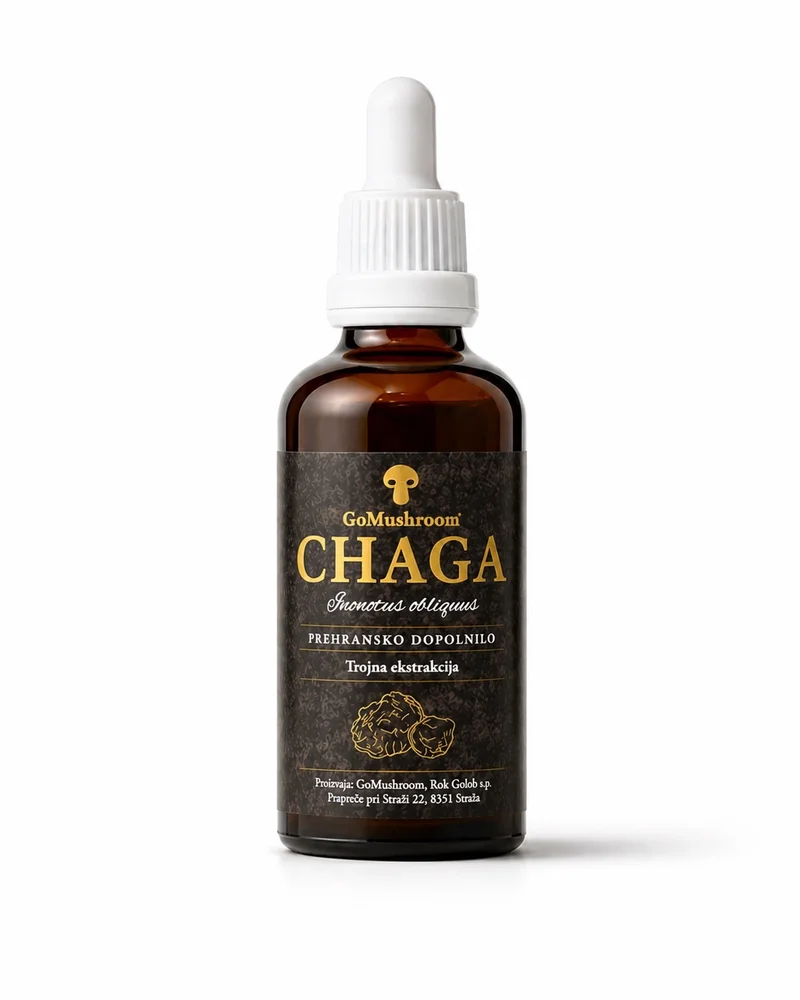
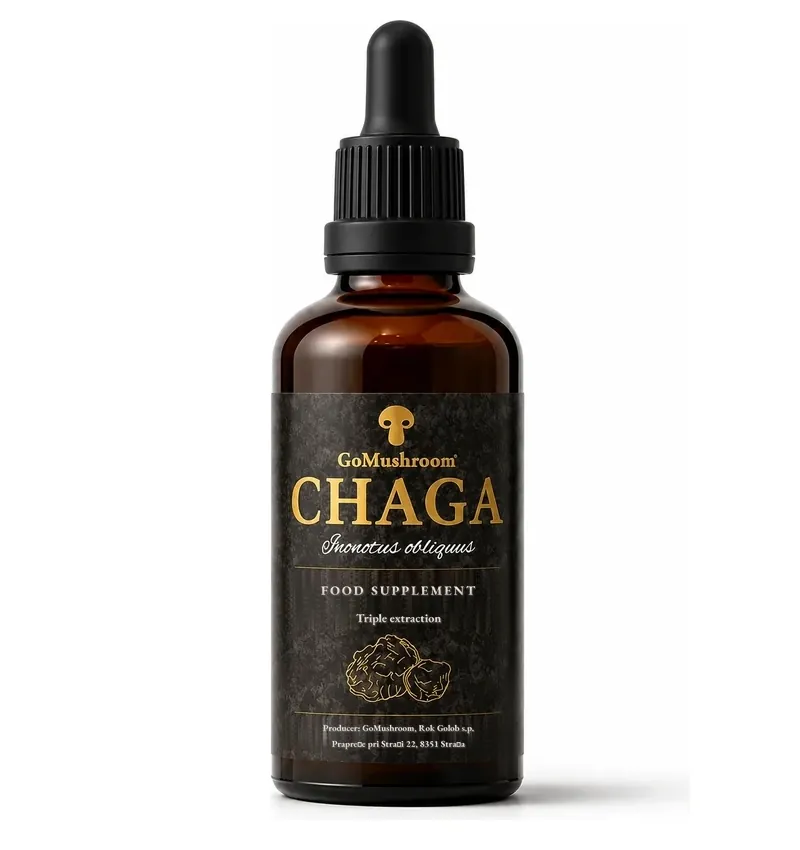
Angleske nalepke na fotografijah izdelkov
Fotografije so bile ene same, s slovensko nalepko: na angleski kartici je
pisalo Lion's Mane, na steklenici pa BRADOVEC. Tudi PREHRANSKO DOPOLNILO in
Trojna ekstrakcija sta bila slovenska na vseh stirih.

Postopek: staro besedilo je odstranjeno, tekstura nalepke pa obnovljena iz
cistih pasov nad in pod vrstico - les ima navpicne zile, zato se stolpci
ujamejo. Referencni pas se izracuna iz vrzeli med zaznanimi vrsticami, da
vanj ne zaide sosednje besedilo. Novo besedilo je izrisano v Playfair
Display Bold (ime) in EB Garamond SemiBold (ostalo), v barvah, izmerjenih
iz izvirnika: zlato 242,202,121 in kremno 252,242,236.

Prevedeno je vse besedilo, ki je slovensko:
- BRADOVEC -> LION'S MANE, SMREKOVI VRSICKI -> SPRUCE BUD
  (Reishi in Chaga se bereta enako)
- PREHRANSKO DOPOLNILO -> FOOD SUPPLEMENT
- Trojna ekstrakcija -> Triple extraction
- Alkoholno-vodna ekstrakcija -> Hydroethanolic extraction
- Proizvaja: -> Producer:
Naslov ostaja nespremenjen, ker je pravni podatek.

Predelanih je osem izvirnikov (stirje izdelki krat alkoholna in glicerinska
razlicica), iz njih pa izpeljanih 32 datotek. Da so izpeljanke tocne, sem
izrez vsake velikosti poiskal s korelacijo proti obstojeci slovenski
datoteki; ujemanje je 0,8 do 1,6/255, kar je raven ponovnega stiskanja.

Slovenske strani se naprej uporabljajo slovenske fotografije. V trgovini je
pot do slike v bazi ena sama in slovenska, zato jo shop.js v EN trgovini
preslika prek slikaIzdelka().
[…]

Changed region(s): [[0.3125, 0.0, 0.8125, 0.9788], [0.5312, 0.3976, 0.5625, 0.4282]]

diff --git a/en/index.html b/en/index.html
@@ -272,7 +272,7 @@
           <li><span class="compare-ico compare-ico--check">✓</span>Low-temperature vacuum concentration</li>
           <li><span class="compare-ico compare-ico--check">✓</span>Small batches with full traceability</li>
         </ul>
-        <img class="compare-bottle" src="/assets/shop/reishi-tinktura-50ml-gomushroom-shop.webp" alt="GoMushroom Reishi tincture" width="220" height="275" loading="lazy">
+        <img class="compare-bottle" src="/assets/shop/reishi-tincture-50ml-gomushroom-shop.webp" alt="GoMushroom Reishi tincture" width="220" height="275" loading="lazy">
       </div>
     </div>
 
@@ -562,12 +562,12 @@
     <div class="gm-products">
       <article class="gm-product gm-product--reishi">
         <div class="gm-product-media">
-          <img class="gm-product-img-alc" src="/assets/shop/reishi-tinktura-50ml-gomushroom-home-320.webp"
-               srcset="/assets/shop/reishi-tinktura-50ml-gomushroom-home-320.webp 320w, /assets/shop/reishi-tinktura-50ml-gomushroom-home.webp 475w"
+          <img class="gm-product-img-alc" src="/assets/shop/reishi-tincture-50ml-gomushroom-home-320.webp"
+               srcset="/assets/shop/reishi-tincture-50ml-gomushroom-home-320.webp 320w, /assets/shop/reishi-tincture-50ml-gomushroom-home.webp 475w"
                sizes="(max-width:900px) 76vw, 252px"
                width="475" height="763" alt="Reishi tincture (Ganoderma lucidum) - triple extracted GoMushroom" />
-          <img class="gm-product-img-gly" src="/assets/shop/reishi-tinktura-50ml-gomushroom-home-gly-320.webp"
-               srcset="/assets/shop/reishi-tinktura-50ml-gomushroom-home-gly-320.webp 320w, /assets/shop/reishi-tinktura-50ml-gomushroom-home-gly.webp 493w"
+          <img class="gm-product-img-gly" src="/assets/shop/reishi-tincture-50ml-gomushroom-home-gly-320.webp"
+               srcset="/assets/shop/reishi-tincture-50ml-gomushroom-home-gly-320.webp 320w, /assets/shop/reishi-tincture-50ml-gomushroom-home-gly.webp 493w"
                sizes="(max-width:900px) 76vw, 252px"
                width="493" height="775" alt="" aria-hidden="true" />
         </div>
@@ -591,12 +591,12 @@
 
       <article class="gm-product gm-product--bradovec">
         <div class="gm-product-media">
-          <img class="gm-product-img-alc" src="/assets/shop/resasti-bradovec-tinktura-50ml-gomushroom-home-320.webp"
-               srcset="/assets/shop/resasti-bradovec-tinktura-50ml-gomushroom-home-320.webp 320w, /assets/shop/resasti-bradovec-tinktura-50ml-gomushroom-home.webp 452w"
+          <img class="gm-product-img-alc" src="/assets/shop/lions-mane-tincture-50ml-gomushroom-home-320.webp"
+               srcset="/assets/shop/lions-mane-tincture-50ml-gomushroom-home-320.webp 320w, /assets/shop/lions-mane-tincture-50ml-gomushroom-home.webp 452w"
                sizes="(max-width:900px) 76vw, 252px"
                width="452" height="764" alt="Lion’s Mane tincture (Hericium erinaceus) - triple extracted GoMushroom" />
-          <img class="gm-product-img-gly" src="/assets/shop/resasti-bradovec-tinktura-50ml-gomushroom-home-gly-320.webp"
-               srcset="/assets/shop/resasti-bradovec-tinktura-50ml-gomushroom-home-gly-320.webp 320w, /assets/shop/resasti-bradovec-tinktura-50ml-gomushroom-home-gly.webp 473w"
+          <img class="gm-product-img-gly" src="/assets/shop/lions-mane-tincture-50ml-gomushroom-home-gly-320.webp"
+               srcset="/assets/shop/lions-mane-tincture-50ml-gomushroom-home-gly-320.webp 320w, /assets/shop/lions-mane-tincture-50ml-gomushroom-home-gly.webp 473w"
                sizes="(max-width:900px) 76vw, 252px"
                width="473" height="817" alt="" aria-hidden="true" />
         </div>
@@ -620,12 +620,12 @@
 
       <article class="gm-product gm-product--chaga">
         <div class="gm-product-media">
-          <img class="gm-product-img-alc" src="/assets/shop/chaga-tinktura-50ml-gomushroom-home-320.webp"
-               srcset="/assets/shop/chaga-tinktura-50ml-gomushroom-home-320.webp 320w, /assets/shop/chaga-tinktura-50ml-gomushroom-home.webp 440w"
+          <img class="gm-product-img-alc" src="/assets/shop/chaga-tincture-50ml-gomushroom-home-320.webp"
+               srcset="/assets/shop/chaga-tincture-50ml-gomushroom-home-320.webp 320w, /assets/shop/chaga-tincture-50ml-gomushroom-home.webp 440w"
                sizes="(max-width:900px) 76vw, 252px"
                width="440" height="757" alt="Chaga tincture (Inonotus obliquus) - triple extracted GoMushroom" />
-          <img class="gm-product-img-gly" src="/assets/shop/chaga-tinktura-50ml-gomushroom-home-gly-320.webp"
-               srcset="/assets/shop/chaga-tinktura-50ml-gomushroom-home-gly-320.webp 320w, /assets/shop/chaga-tinktura-50ml-gomushroom-home-gly.webp 455w"
+          <img class="gm-product-img-gly" src="/assets/shop/chaga-tincture-50ml-gomushroom-home-gly-320.webp"
+               srcset="/assets/shop/chaga-tincture-50ml-gomushroom-home-gly-320.webp 320w, /assets/shop/chaga-tincture-50ml-gomushroom-home-gly.webp 455w"
                sizes="(max-width:900px) 76vw, 252px"
                width="455" height="773" alt="" aria-hidden="true" />
         </div>
@@ -649,12 +649,12 @@
 
       <article class="gm-product gm-product--smrekovi">
         <div class="gm-product-media">
-          <img class="gm-product-img-alc" src="/assets/shop/smrekovi-vrsicki-tinktura-50ml-gomushroom-home-320.webp"
-               srcset="/assets/shop/smrekovi-vrsicki-tinktura-50ml-gomushroom-home-320.webp 320w, /assets/shop/smrekovi-vrsicki-tinktura-50ml-gomushroom-home.webp 445w"
+          <img class="gm-product-img-alc" src="/assets/shop/spruce-bud-tincture-50ml-gomushroom-home-320.webp"
+               srcset="/assets/shop/spruce-bud-tincture-50ml-gomushroom-home-320.webp 320w, /assets/shop/spruce-bud-tincture-50ml-gomushroom-home.webp 445w"
                sizes="(max-width:900px) 76vw, 252px"
                width="445" height="766" alt="Spruce bud concentrate - hydroethanolic extraction GoMushroom" />
-          <img class="gm-product-img-gly" src="/assets/shop/smrekovi-vrsicki-tinktura-50ml-gomushroom-home-gly-320.webp"
-               srcset="/assets/shop/smrekovi-vrsicki-tinktura-50ml-gomushroom-home-gly-320.webp 320w, /assets/shop/smrekovi-vrsicki-tinktura-50ml-gomushroom-home-gly.webp 467w"
+          <img class="gm-product-img-gly" src="/assets/shop/spruce-bud-tincture-50ml-gomushroom-home-gly-320.webp"
+               srcset="/assets/shop/spruce-bud-tincture-50ml-gomushroom-home-gly-320.webp 320w, /assets/shop/spruce-bud-tincture-50ml-gomushroom-home-gly.webp 467w"
                sizes="(max-width:900px) 76vw, 252px"
                width="467" height="784" alt="" aria-hidden="true" />
         </div>

diff --git a/en/shop/spruce-bud-tincture/index.html b/en/shop/spruce-bud-tincture/index.html
@@ -18,14 +18,14 @@
   <meta property="og:description" content="Seasonal spruce bud extract. Hydroethanolic extraction, vacuum concentration, natural terpenes and phenolic compounds." />
   <meta property="og:type" content="product" />
   <meta property="og:url" content="https://gomushroom.si/en/shop/spruce-bud-tincture/" />
-  <meta property="og:image" content="https://gomushroom.si/assets/shop/smrekovi-vrsicki-tinktura-50ml-gomushroom.webp" />
+  <meta property="og:image" content="https://gomushroom.si/assets/shop/spruce-bud-tincture-50ml-gomushroom.webp" />
   <meta property="og:site_name" content="GoMushroom" />
   <meta property="og:locale" content="en_US" />
 
   <meta name="twitter:card" content="summary_large_image" />
   <meta name="twitter:title" content="Spruce Bud Tincture 50 ml – Seasonal Extract | GoMushroom" />
   <meta name="twitter:description" content="Seasonal spruce bud extract. Hydroethanolic extraction, vacuum concentration, natural terpenes and phenolic compounds." />
-  <meta name="twitter:image" content="https://gomushroom.si/assets/shop/smrekovi-vrsicki-tinktura-50ml-gomushroom.webp" />
+  <meta name="twitter:image" content="https://gomushroom.si/assets/shop/spruce-bud-tincture-50ml-gomushroom.webp" />
 
   <link rel="stylesheet" href="/css/site.css" />
   <link rel="stylesheet" href="/trgovina/css/trgovina.css" />
@@ -38,7 +38,7 @@
     "@id":"https://gomushroom.si/en/shop/spruce-bud-tincture/#product",
     "name":"Spruce Bud Tincture",
     "description":"Seasonal spruce bud extract made through hydroethanolic extraction and vacuum concentration. Natural terpenes (α-pinene, β-pinene, limonene), phenolic compounds, vitamin C and sunflower lecithin.",
-    "image":"https://gomushroom.si/assets/shop/smrekovi-vrsicki-tinktura-50ml-gomushroom.webp",
+    "image":"https://gomushroom.si/assets/shop/spruce-bud-tincture-50ml-gomushroom.webp",
     "brand":{"@type":"Brand","name":"GoMushroom"},
     "manufacturer":{"@type":"Organization","name":"GoMushroom — Rok Golob"},
     "category":"Dietary supplement",
@@ -129,13 +129,13 @@
         <div class="product-card product-buy" id="nakup">
           <div class="product-buy-inner">
 
-            <picture class="product-image-wrap" data-image-alc="/assets/shop/smrekovi-vrsicki-tinktura-50ml-gomushroom.webp" data-image-gly="/assets/shop/smrekovi-vrsicki-tinktura-50ml-gomushroom-gly.webp">
+            <picture class="product-image-wrap" data-image-alc="/assets/shop/spruce-bud-tincture-50ml-gomushroom.webp" data-image-gly="/assets/shop/spruce-bud-tincture-50ml-gomushroom-gly.webp">
               <source
-                srcset="/assets/shop/smrekovi-vrsicki-tinktura-50ml-gomushroom.webp 800w"
+                srcset="/assets/shop/spruce-bud-tincture-50ml-gomushroom.webp 800w"
                 sizes="(max-width: 760px) 90vw, 420px"
                 type="image/webp">
               <img
-                src="/assets/shop/smrekovi-vrsicki-tinktura-50ml-gomushroom.webp"
+                src="/assets/shop/spruce-bud-tincture-50ml-gomushroom.webp"
                 alt="Spruce bud extract 50 ml GoMushroom - alcohol-based version with black cap"
                 width="800"
                 height="1000"
@@ -173,7 +173,7 @@
                   data-name="Spruce bud tincture"
                   data-variant-label="Alcohol-based"
                   data-sku="SV-ALC-50"
-                  data-image="/assets/shop/smrekovi-vrsicki-tinktura-50ml-gomushroom.webp">
+                  data-image="/assets/shop/spruce-bud-tincture-50ml-gomushroom.webp">
                   Add to cart
                 </button>
                 <a class="gm-btn gm-btn-secondary" href="/en/shop/">Back to shop</a>

diff --git a/en/shop/lions-mane-tincture/index.html b/en/shop/lions-mane-tincture/index.html
@@ -18,7 +18,7 @@
   <meta property="og:description" content="Slovenian raw material from Pohorska gobarna, our own extraction process, small batches and a transparent approach to quality." />
   <meta property="og:type" content="product" />
   <meta property="og:url" content="https://gomushroom.si/en/shop/lions-mane-tincture/" />
-  <meta property="og:image" content="https://gomushroom.si/assets/shop/resasti-bradovec-tinktura-50ml-gomushroom.webp" />
+  <meta property="og:image" content="https://gomushroom.si/assets/shop/lions-mane-tincture-50ml-gomushroom.webp" />
   <meta property="og:site_name" content="GoMushroom" />
   <meta property="og:locale" content="en_US" />
 
@@ -33,7 +33,7 @@
     "@id":"https://gomushroom.si/en/shop/lions-mane-tincture/#product",
     "name":"Lion's Mane",
     "description":"GoMushroom Lion's Mane tincture. Slovenian raw material from Pohorska gobarna, our own extraction process, small batches.",
-    "image":"https://gomushroom.si/assets/shop/resasti-bradovec-tinktura-50ml-gomushroom.webp",
+    "image":"https://gomushroom.si/assets/shop/lions-mane-tincture-50ml-gomushroom.webp",
     "brand":{"@type":"Brand","name":"GoMushroom"},
     "manufacturer":{"@type":"Organization","name":"GoMushroom — Rok Golob"},
     "category":"Dietary supplement",
@@ -112,13 +112,13 @@
         <div class="product-card product-buy" id="nakup">
           <div class="product-buy-inner">
 
-            <picture class="product-image-wrap" data-image-alc="/assets/shop/resasti-bradovec-tinktura-50ml-gomushroom.webp" data-image-gly="/assets/shop/resasti-bradovec-tinktura-50ml-gomushroom-gly.webp">
+            <picture class="product-image-wrap" data-image-alc="/assets/shop/lions-mane-tincture-50ml-gomushroom.webp" data-image-gly="/assets/shop/lions-mane-tincture-50ml-gomushroom-gly.webp">
               <source
-                srcset="/assets/shop/resasti-bradovec-tinktura-50ml-gomushroom.webp 800w"
+                srcset="/assets/shop/lions-mane-tincture-50ml-gomushroom.webp 800w"
                 sizes="(max-width: 760px) 90vw, 420px"
                 type="image/webp">
               <img
-                src="/assets/shop/resasti-bradovec-tinktura-50ml-gomushroom.webp"
+                src="/assets/shop/lions-mane-tincture-50ml-gomushroom.webp"
                 alt="Lion's Mane tincture 50 ml GoMushroom - alcohol-based version with black cap"
                 width="800"
                 height="1000"
@@ -156,7 +156,7 @@
                   data-name="Lion's Mane tincture"
                   data-variant-label="Alcohol-based"
                   data-sku="LM-ALC-50"
-                  data-image="/assets/shop/resasti-bradovec-tinktura-50ml-gomushroom.webp">
+                  data-image="/assets/shop/lions-mane-tincture-50ml-gomushroom.webp">
                   Add to cart
                 </button>
                 <a class="gm-btn gm-btn-secondary" href="/en/shop/">Back to shop</a>

diff --git a/trgovina/js/shop.js b/trgovina/js/shop.js
@@ -140,6 +140,23 @@ function displayProductName(p) {
   return LANG === 'en' ? (EN_PRODUCT_NAMES[p.slug] || p.name) : p.name;
 }
 
+// Nalepka na steklenicki je fotografirana v obeh jezikih, pot do slike pa je v
+// bazi ena sama in slovenska. V EN trgovini jo zamenjamo z angleskim parom.
+const EN_SLIKE = {
+  'reishi-tinktura': 'reishi-tincture',
+  'chaga-tinktura': 'chaga-tincture',
+  'resasti-bradovec-tinktura': 'lions-mane-tincture',
+  'smrekovi-vrsicki-tinktura': 'spruce-bud-tincture'
+};
+function slikaIzdelka(p) {
+  const pot = p.image || '';
+  if (LANG !== 'en' || !pot) return pot;
+  for (const [sl, en] of Object.entries(EN_SLIKE)) {
+    if (pot.includes(sl)) return pot.replace(sl, en);
+  }
+  return pot;
+}
+
 // Izdelki, ki (za zdaj) niso na voljo v EN trgovini
 const EN_HIDDEN_PRODUCTS = [];
 
@@ -352,7 +369,7 @@ function renderShopGrid(products) {
         <div class="shop-product-img-wrap">
           <a class="shop-product-img-link" href="${detailUrl || SHOP_HOME}">
             <div class="shop-product-image">
-              <img src="${p.image ? p.image.replace(/\.webp$/, '-shop.webp') : '/assets/placeholder.webp'}" alt="${displayProductName(p)}" width="400" height="400" loading="lazy" onerror="this.src='${p.image || '/assets/placeholder.webp'}'">
+              <img src="${slikaIzdelka(p) ? slikaIzdelka(p).replace(/\.webp$/, '-shop.webp') : '/assets/placeholder.webp'}" alt="${displayProductName(p)}" width="400" height="400" loading="lazy" onerror="this.src='${slikaIzdelka(p) || '/assets/placeholder.webp'}'">
               ${maxDiscount > 0 ? `<span class="gm-discount-badge">−${maxDiscount}%</span>` : ''}
             </div>
           </a>
@@ -392,7 +409,7 @@ function renderShopGrid(products) {
               data-slug="${p.slug}" data-name="${p.name}"
               data-variant="${defaultVariant.type}" data-variant-label="${SHOP_STR.variantName[defaultVariant.type] || defaultVariant.name}"
               data-price="${discPrice.toFixed(2)}" data-sku="${defaultVariant.sku || ''}"
-              data-image="${p.image || ''}"
+              data-image="${slikaIzdelka(p) || ''}"
               ${!defaultVariant.in_stock ? 'disabled' : ''}>
               ${defaultVariant.in_stock ? SHOP_STR.add : SHOP_STR.outOfStock}
             </button>
@@ -462,7 +479,7 @@ function bindVariantPickers(products) {
       if (product.image) {
         const imgEl = card.querySelector('.shop-product-image img');
         if (imgEl) {
-          const base = product.image.replace(/\.webp$/, '');
+          const base = slikaIzdelka(product).replace(/\.webp$/, '');
           const variantImg = type === 'gly' ? `${base}-gly-shop.webp` : `${base}-shop.webp`;
           const fallbackImg = `${base}-shop.webp`;
           imgEl.onerror = () => { imgEl.onerror = null; imgEl.src = fallbackImg; };

diff --git a/en/shop/reishi-tincture/index.html b/en/shop/reishi-tincture/index.html
@@ -18,7 +18,7 @@
   <meta property="og:description" content="Our own cultivated Reishi, our own extraction process and small batches. Alcohol-based or alcohol-free version." />
   <meta property="og:type" content="product" />
   <meta property="og:url" content="https://gomushroom.si/en/shop/reishi-tincture/" />
-  <meta property="og:image" content="https://gomushroom.si/assets/shop/reishi-tinktura-50ml-gomushroom.webp" />
+  <meta property="og:image" content="https://gomushroom.si/assets/shop/reishi-tincture-50ml-gomushroom.webp" />
   <meta property="og:site_name" content="GoMushroom" />
   <meta property="og:locale" content="en_US" />
 
@@ -33,7 +33,7 @@
     "@id":"https://gomushroom.si/en/shop/reishi-tincture/#product",
     "name":"Reishi",
     "description":"Reishi tincture 50 ml made from our own cultivated Ganoderma lucidum. Own extraction process, small batches, alcohol-based or alcohol-free version.",
-    "image":"https://gomushroom.si/assets/shop/reishi-tinktura-50ml-gomushroom.webp",
+    "image":"https://gomushroom.si/assets/shop/reishi-tincture-50ml-gomushroom.webp",
     "brand":{"@type":"Brand","name":"GoMushroom"},
     "manufacturer":{"@type":"Organization","name":"GoMushroom — Rok Golob"},
     "category":"Dietary supplement",
@@ -113,13 +113,13 @@
         <div class="product-card product-buy" id="nakup">
           <div class="product-buy-inner">
 
-            <picture class="product-image-wrap" data-image-alc="/assets/shop/reishi-tinktura-50ml-gomushroom.webp" data-image-gly="/assets/shop/reishi-tinktura-50ml-gomushroom-gly.webp">
+            <picture class="product-image-wrap" data-image-alc="/assets/shop/reishi-tincture-50ml-gomushroom.webp" data-image-gly="/assets/shop/reishi-tincture-50ml-gomushroom-gly.webp">
               <source
-                srcset="/assets/shop/reishi-tinktura-50ml-gomushroom.webp 800w"
+                srcset="/assets/shop/reishi-tincture-50ml-gomushroom.webp 800w"
                 sizes="(max-width: 760px) 90vw, 420px"
                 type="image/webp">
               <img
-                src="/assets/shop/reishi-tinktura-50ml-gomushroom.webp"
+                src="/assets/shop/reishi-tincture-50ml-gomushroom.webp"
                 alt="Reishi tincture 50 ml GoMushroom - alcohol-based version with black cap"
                 width="800"
                 height="1000"
@@ -157,7 +157,7 @@
                 data-name="Reishi tincture"
                 data-variant-label="Alcohol-based"
                 data-sku="RE-ALC-50"
-                data-image="/assets/shop/reishi-tinktura-50ml-gomushroom.webp">
+                data-image="/assets/shop/reishi-tincture-50ml-gomushroom.webp">
                 Add to cart
               </button>
               <a class="gm-btn gm-btn-secondary" href="/en/shop/">Back to shop</a>

diff --git a/en/shop/chaga-tincture/index.html b/en/shop/chaga-tincture/index.html
@@ -18,7 +18,7 @@
   <meta property="og:description" content="Raw material from EU/non-EU birch forests, our own extraction process, small batches and a transparent approach to quality." />
   <meta property="og:type" content="product" />
   <meta property="og:url" content="https://gomushroom.si/en/shop/chaga-tincture/" />
-  <meta property="og:image" content="https://gomushroom.si/assets/shop/chaga-tinktura-50ml-gomushroom.webp" />
+  <meta property="og:image" content="https://gomushroom.si/assets/shop/chaga-tincture-50ml-gomushroom.webp" />
   <meta property="og:site_name" content="GoMushroom" />
   <meta property="og:locale" content="en_US" />
 
@@ -33,7 +33,7 @@
     "@id":"https://gomushroom.si/en/shop/chaga-tincture/#product",
     "name":"Chaga",
     "description":"GoMushroom Chaga tincture. Raw material from EU/non-EU birch forests, our own extraction process, small batches.",
-    "image":"https://gomushroom.si/assets/shop/chaga-tinktura-50ml-gomushroom.webp",
+    "image":"https://gomushroom.si/assets/shop/chaga-tincture-50ml-gomushroom.webp",
     "brand":{"@type":"Brand","name":"GoMushroom"},
     "manufacturer":{"@type":"Organization","name":"GoMushroom — Rok Golob"},
     "category":"Dietary supplement",
@@ -112,13 +112,13 @@
         <div class="product-card product-buy" id="nakup">
           <div class="product-buy-inner">
 
-            <picture class="product-image-wrap" data-image-alc="/assets/shop/chaga-tinktura-50ml-gomushroom.webp" data-image-gly="/assets/shop/chaga-tinktura-50ml-gomushroom-gly.webp">
+            <picture class="product-image-wrap" data-image-alc="/assets/shop/chaga-tincture-50ml-gomushroom.webp" data-image-gly="/assets/shop/chaga-tincture-50ml-gomushroom-gly.webp">
               <source
-                srcset="/assets/shop/chaga-tinktura-50ml-gomushroom.webp 800w"
+                srcset="/assets/shop/chaga-tincture-50ml-gomushroom.webp 800w"
                 sizes="(max-width: 760px) 90vw, 420px"
                 type="image/webp">
               <img
-                src="/assets/shop/chaga-tinktura-50ml-gomushroom.webp"
+                src="/assets/shop/chaga-tincture-50ml-gomushroom.webp"
                 alt="Chaga tincture 50 ml GoMushroom - alcohol-based version with black cap"
                 width="800"
                 height="1000"
@@ -156,7 +156,7 @@
                   data-name="Chaga tincture"
                   data-variant-label="Alcohol-based"
                   data-sku="CH-ALC-50"
-                  data-image="/assets/shop/chaga-tinktura-50ml-gomushroom.webp">
+                  data-image="/assets/shop/chaga-tincture-50ml-gomushroom.webp">
                   Add to cart
                 </button>
                 <a class="gm-btn gm-btn-secondary" href="/en/shop/">Back to shop</a>

diff --git a/en/shop/index.html b/en/shop/index.html
@@ -85,7 +85,7 @@
           <div class="shop-product-img-wrap">
             <a class="shop-product-img-link" href="/en/shop/reishi-tincture/">
               <div class="shop-product-image">
-                <img src="/assets/shop/reishi-tinktura-50ml-gomushroom-shop.webp" alt="Reishi" width="400" height="400" loading="lazy">
+                <img src="/assets/shop/reishi-tincture-50ml-gomushroom-shop.webp" alt="Reishi" width="400" height="400" loading="lazy">
               </div>
             </a>
             <span class="shop-product-rating shop-product-rating--caka" aria-hidden="true">
@@ -114,7 +114,7 @@
           <div class="shop-product-img-wrap">
             <a class="shop-product-img-link" href="/en/shop/lions-mane-tincture/">
               <div class="shop-product-image">
-                <img src="/assets/shop/resasti-bradovec-tinktura-50ml-gomushroom-shop.webp" alt="Lion's Mane" width="400" height="400" loading="lazy">
+                <img src="/assets/shop/lions-mane-tincture-50ml-gomushroom-shop.webp" alt="Lion's Mane" width="400" height="400" loading="lazy">
               </div>
             </a>
             <span class="shop-product-rating shop-product-rating--caka" aria-hidden="true">
@@ -143,7 +143,7 @@
           <div class="shop-product-img-wrap">
             <a class="shop-product-img-link" href="/en/shop/chaga-tincture/">
               <div class="shop-product-image">
-                <img src="/assets/shop/chaga-tinktura-50ml-gomushroom-shop.webp" alt="Chaga" width="400" height="400" loading="lazy">
+                <img src="/assets/shop/chaga-tincture-50ml-gomushroom-shop.webp" alt="Chaga" width="400" height="400" loading="lazy">
               </div>
             </a>
             <span class="shop-product-rating shop-product-rating--caka" aria-hidden="true">
@@ -172,7 +172,7 @@
           <div class="shop-product-img-wrap">
             <a class="shop-product-img-link" href="/en/shop/spruce-bud-tincture/">
               <div class="shop-product-image">
-                <img src="/assets/shop/smrekovi-vrsicki-tinktura-50ml-gomushroom-shop.webp" alt="Spruce Bud Tincture" width="400" height="400" loading="lazy">
+                <img src="/assets/shop/spruce-bud-tincture-50ml-gomushroom-shop.webp" alt="Spruce Bud Tincture" width="400" height="400" loading="lazy">
               </div>
             </a>
             <span class="shop-product-rating shop-product-rating--caka" aria-hidden="true">
